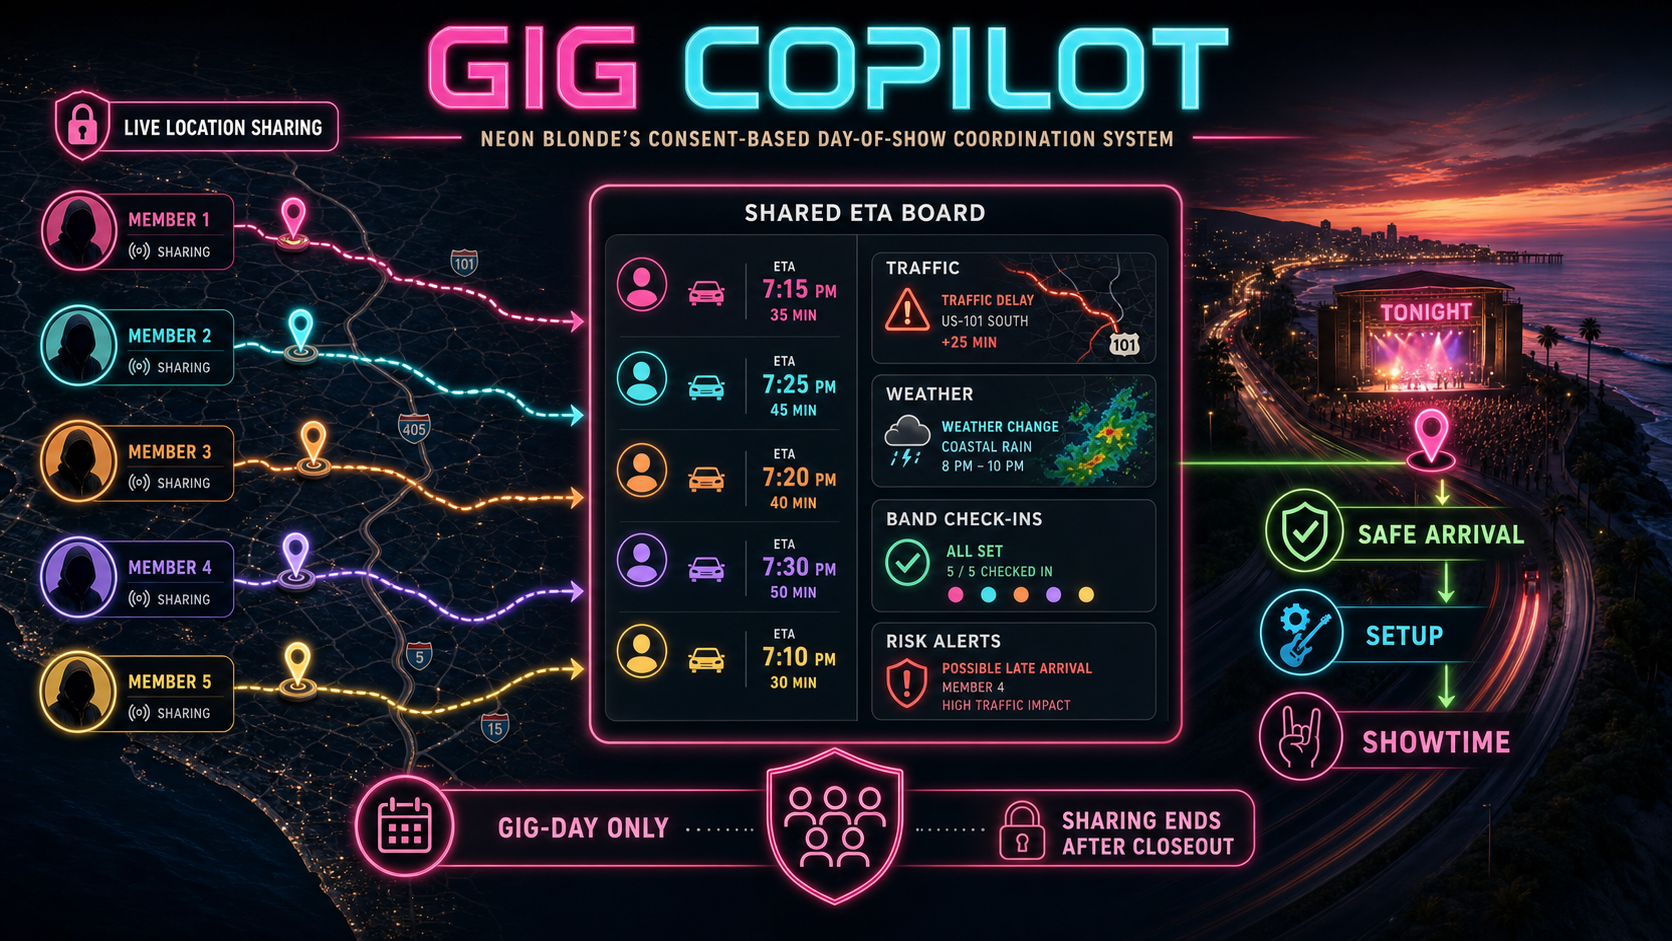
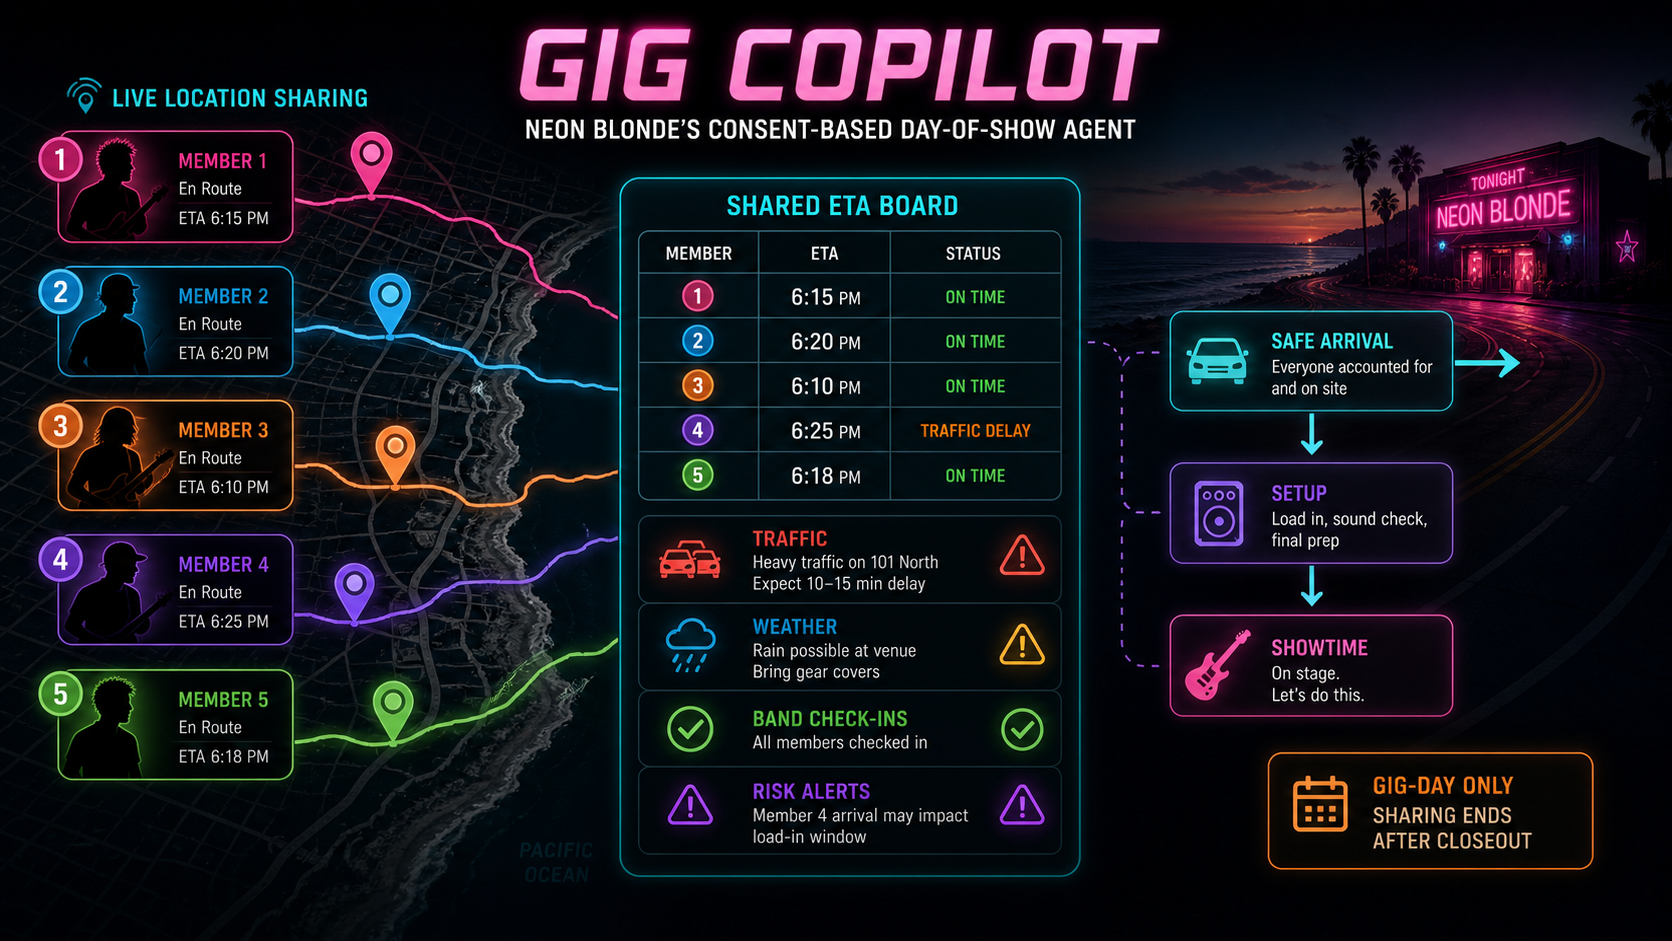
Refer to Neon V2 and Gig Copilot as agents

diff --git a/README.md b/README.md
@@ -10,7 +10,7 @@
 
 ![Neon V2 agentic workflow](docs/images/neon-v2-agentic-workflow.png)
 
-Neon V2 is a supervised agentic workflow built for **Neon Blonde**, a five-member band based in Ventura, California, performing up and down the Southern California coast.
+Neon V2 is a supervised operations agent built for **Neon Blonde**, a five-member band based in Ventura, California, performing up and down the Southern California coast.
 
 Running an active band means coordinating far more than a set list. Booking inquiries arrive through email and messages. Five people have jobs, travel constraints, unavailable dates, rehearsals, equipment, and changing arrival times. Venue details must stay aligned across calendars, the Band Sheet, local files, public show listings, and band communication. After each show, payouts and multiple types of tips still need to be closed out.
 
@@ -74,7 +74,7 @@ Codex, Claude, Gemini, and Hermes can operate the system through a shared compat
 
 ![Gig Copilot show-day workflow](docs/images/gig-copilot-show-day-workflow.png)
 
-Gig Copilot is the day-of-show operations layer for Neon Blonde.
+Gig Copilot is Neon Blonde's day-of-show coordination agent.
 
 The members of Neon Blonde have jobs, commitments, different starting locations, and different routes to each venue. On gig day, repeatedly checking a group chat is not always practical or safe. Gig Copilot is designed to maintain a shared operational picture while the band is working, loading equipment, or driving.
 
@@ -171,7 +171,7 @@ Confirmed Gig Operations     Draft / Review Queue
 | `scripts/` | Deterministic intake, verification, monitoring, payout, folder, and health tools |
 | `dashboard/` | Local operational dashboard |
 | `Telegram Bot/` | NeonBotstein conversational operations and booking watcher |
-| `Gig Copilot Bot/` | Day-of-show coordination and broadcast system |
+| `Gig Copilot Bot/` | Day-of-show coordination agent and broadcast tools |
 | `launch_agents/` | macOS scheduled automation definitions |
 | `tests/` | Main system regression tests |
 | `docs/superpowers/` | Approved designs and implementation plans |
@@ -209,12 +209,12 @@ Secrets, runtime receipts, logs, local tool state, and private operational data 
 
 ## Project Status
 
-Neon V2 is an active, supervised production system. Booking intake, verification, health monitoring, venue operations, public-show comparison, Telegram workflows, post-gig payout tracking, and reminder infrastructure are implemented at varying levels of production maturity.
+Neon V2 is an active, supervised production agent. Booking intake, verification, health monitoring, venue operations, public-show comparison, Telegram workflows, post-gig payout tracking, and reminder infrastructure are implemented at varying levels of production maturity.
 
 Gig Copilot's bot foundation and show-day communication framework are implemented. Richer live location sharing, route intelligence, traffic monitoring, and weather-driven alerts remain an active development lane.
 
 ## Why This Repository Exists
 
-Neon V2 is both a working band-management system and a practical example of agentic software applied to a real small organization. It demonstrates how AI reasoning, deterministic tools, human approval, multiple communication channels, and durable operational records can work together without handing uncontrolled authority to a model.
+Neon V2 is both a working band-management agent and a practical example of agentic software applied to a real small organization. It demonstrates how AI reasoning, deterministic tools, human approval, multiple communication channels, and durable operational records can work together without handing uncontrolled authority to a model.
 
 The goal is simple: fewer dropped details, fewer conflicting versions of the truth, safer travel, better-informed decisions, and five musicians arriving ready to play.

diff --git a/docs/superpowers/specs/2026-06-19-readme-infographics-design.md b/docs/superpowers/specs/2026-06-19-readme-infographics-design.md
@@ -2,7 +2,7 @@
 
 ## Purpose
 
-Replace the minimal repository README with a detailed, public-facing explanation of Neon V2: an agentic operations system built for Neon Blonde, a five-member band based in Ventura, California, that performs throughout the Southern California coast.
+Replace the minimal repository README with a detailed, public-facing explanation of Neon V2: an operations agent built for Neon Blonde, a five-member band based in Ventura, California, that performs throughout the Southern California coast.
 
 The README should explain the system to musicians, venue partners, developers, and people interested in practical agentic workflows without exposing credentials, private operational data, or machine-specific configuration.
 
@@ -69,7 +69,7 @@ Show Neon V2 as a coastal band-operations command center that connects the compl
 
 ### Message
 
-Gig Copilot is Neon Blonde's day-of-show coordination system. It helps five working musicians reach the venue safely and on time while reducing the need to continuously monitor their phones.
+Gig Copilot is Neon Blonde's day-of-show coordination agent. It helps five working musicians reach the venue safely and on time while reducing the need to continuously monitor their phones.
 
 ### Operational Flow
 